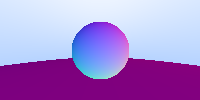
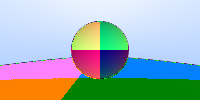
Added a camera module, blew up the stack

diff --git a/src/main.rs b/src/main.rs
@@ -1,6 +1,8 @@
 mod vec;
 mod ray;
 mod shape;
+mod camera;
+extern crate rand;
 extern crate image;
 
 type Vec3 = vec::Vec3;
@@ -8,13 +10,26 @@ type Ray = ray::Ray;
 type Shapes = shape::Shapes; 
 type Sphere = shape::Sphere;
 type Record = shape::Record;
+type Camera = camera::Camera;
+
+fn random_unit_sphere() -> Vec3{
+    let mut p: Vec3 = Vec3::default();
+    if 1.0 <= p.magnitude() * p.magnitude() {
+        use rand::Rng;
+        let mut rng = rand::thread_rng();
+        p = Vec3::new(rng.gen_range(0.0, 1.0), rng.gen_range(0.0, 1.0), rng.gen_range(0.0, 1.0)) * 2.0 -
+                        Vec3::new(1.0, 1.0, 1.0);
+    }
+    return p;
+}
 
 fn colour(r: &Ray, shapes: &Shapes) -> Vec3 {
     use shape::Hitable;
     let mut rec: Record = Record::default();
 
     if shapes.hit(&mut rec, r, 0.0, 10000.0){
-        return Vec3::new(rec.normal.x() + 1.0, rec.normal.y() + 1.0, rec.normal.z() + 1.0) * 0.5; 
+        let target: Vec3 = rec.p + rec.normal + random_unit_sphere();
+        return colour(&Ray::new(&rec.p, &(target - rec.p)), shapes) * 0.5;
     }
     else {
         let unit_direction: Vec3 = vec::make_unit_vector(&r.direction());
@@ -27,24 +42,29 @@ fn colour(r: &Ray, shapes: &Shapes) -> Vec3 {
 fn render() {
     const WIDTH: u32 = 200; 
     const HEIGHT: u32 = 100; 
+    const SMOOTH: u32 = 100; 
 
     let mut framebuffer = image::ImageBuffer::new(WIDTH, HEIGHT);
-    let upper_left_corner: Vec3 = Vec3::new(-2.0, -1.0, -1.0);
-    let horizontal: Vec3 = Vec3::new(4.0, 0.0, 0.0);
-    let vertical: Vec3 = Vec3::new(0.0, 2.0, 0.0);
-    let origin: Vec3 = Vec3::new(0.0, 0.0, 0.0);
 
     let shapes: Shapes = Shapes::new(vec![
         Sphere::new(Vec3::new(0.0, 101.0, -1.0), 100.0), 
         Sphere::new(Vec3::new(0.0, 0.0, -1.0), 0.5)], 2);
 
+    let cam: Camera = Camera::default();
+
     for i in 0..WIDTH{
         for j in 0..HEIGHT{
-            let u: f32 = i as f32 / WIDTH as f32;
-            let v: f32 = j as f32 / HEIGHT as f32;
-            let r: Ray = Ray::new(&origin, &(upper_left_corner + horizontal * u + vertical * v));
-            let colour: Vec3 = colour(&r, &shapes);
-            framebuffer[(i,j)] = image::Rgb([(colour.x() * 255.0) as u8, (colour.y() * 255.0) as u8, (colour.z() * 255.0) as u8]);
+            let mut col: Vec3 = Vec3::new(0.0, 0.0, 0.0);
+            for k in 0..SMOOTH{
+                use rand::Rng;
+                let mut rng = rand::thread_rng();
+                let u: f32 = (i as f32 + rng.gen_range(0.0, 1.0)) / WIDTH as f32;
+                let v: f32 = (j as f32 + rng.gen_range(0.0, 1.0)) / HEIGHT as f32;
+                let r: Ray = cam.get_ray(u, v);
+                //col = colour(&r, &shapes) + col;
+            }
+            col = col / SMOOTH as f32;
+            framebuffer[(i,j)] = image::Rgb([(col.x() * 255.0) as u8, (col.y() * 255.0) as u8, (col.z() * 255.0) as u8]);
         }
     }
     framebuffer.save("output.png").unwrap();

diff --git a/src/camera/mod.rs b/src/camera/mod.rs
@@ -1,0 +1,39 @@
+#![allow(unused)]
+use crate::ray::Ray;
+use crate::vec::Vec3;
+use std::default::Default; 
+
+pub struct Camera{
+    upper_left_corner: Vec3,
+    horizontal: Vec3,
+    vertical: Vec3,
+    origin: Vec3
+}
+
+impl Camera{
+    pub fn new(left_corner: Vec3, horizontal: Vec3, vertical: Vec3, origin: Vec3) -> Camera{
+        return Camera{
+            upper_left_corner: left_corner,
+            horizontal: horizontal,
+            vertical: vertical,
+            origin: origin
+        }
+    }
+
+    pub fn get_ray(&self, u: f32, v: f32) -> Ray{
+        return Ray::new(
+           &self.origin, 
+           &(self.upper_left_corner + self.horizontal * u + (self.vertical * v) - self.origin))
+    }
+}
+
+impl Default for Camera{
+    fn default() -> Camera{
+        return Camera{
+            upper_left_corner: Vec3::new(-2.0, -1.0, -1.0),
+            horizontal: Vec3::new(4.0, 0.0, 0.0),
+            vertical: Vec3::new(0.0, 2.0, 0.0),
+            origin: Vec3::new(0.0, 0.0, 0.0)
+        }
+    }
+}

diff --git a/src/shape/mod.rs b/src/shape/mod.rs
@@ -5,14 +5,15 @@ use std::vec::Vec;
 use std::default::Default; 
 use std::clone::Clone;
 
+
 pub trait Hitable{
     fn hit(&self, rec: &mut Record, r: &Ray, t_min: f32, t_max: f32) -> bool;
 }
 
 #[derive(Clone)]
 pub struct Record{
-    t: f32,
-    p: Vec3,
+    pub t: f32,
+    pub p: Vec3,
     pub normal: Vec3
 }
 
